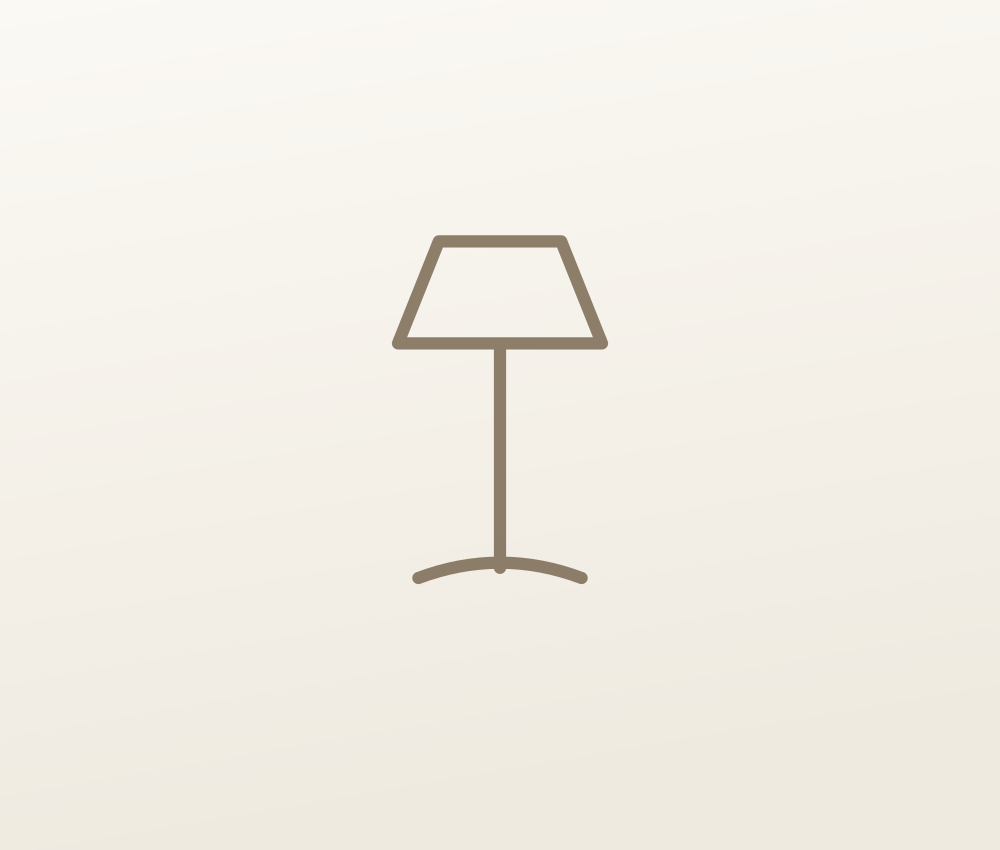
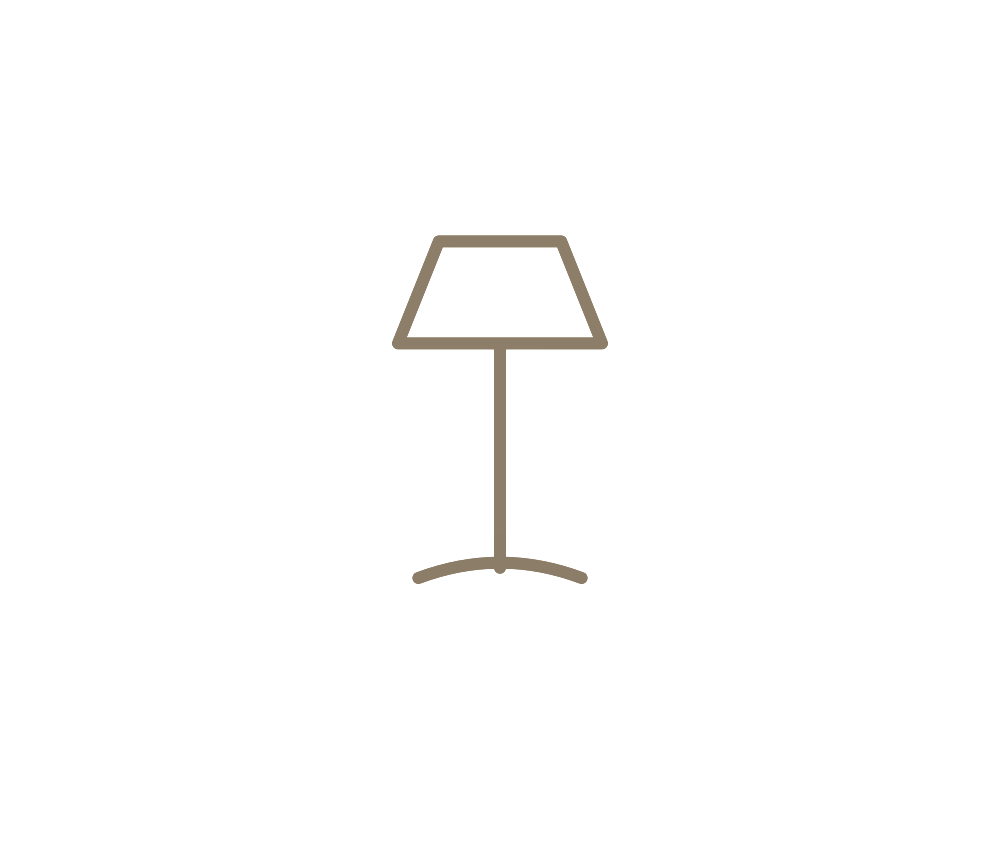
Fundo branco nas capas/cards, remove selo Em breve e adiciona proteção de dados (DSGVO/GDPR)
- Capas convertidas para fundo branco; fundo do card também branco
- Remove o selo 'Em breve' (mantém as capas das categorias sem produto)
- Termo de uso ganha seção de proteção de dados: DSGVO (Alemanha),
  RGPD/GDPR (UE) e LGPD (Brasil), com direitos do titular, base legal,
  cookies e campos para revisão jurídica

diff --git a/assets/app.js b/assets/app.js
@@ -32,7 +32,18 @@ const LEGAL_TEXT = `
 <p><strong>A curadoria não substitui um projeto de interiores.</strong> As sugestões têm caráter inspiracional e não constituem projeto de arquitetura ou decoração personalizado.</p>
 <p><strong>Responsabilidade da loja.</strong> Pagamento, entrega, trocas, garantias e atendimento são de inteira responsabilidade da loja de origem.</p>
 <p><strong>Propriedade do conteúdo.</strong> A curadoria, a organização e os textos desta plataforma são de propriedade da Casa com Identidade.</p>
-<p style="color:var(--bronze-soft);font-style:italic">[Texto provisório — será substituído pelo texto final fornecido por Gabriele.]</p>
+
+<h4 style="font-family:'Marcellus',serif;font-size:19px;margin:22px 0 6px">Proteção de dados — DSGVO (Alemanha) e RGPD/GDPR (União Europeia)</h4>
+<p>Esta plataforma respeita o Regulamento Geral sobre a Proteção de Dados da União Europeia (RGPD/GDPR, Regulamento (UE) 2016/679) e a lei de proteção de dados da Alemanha (Bundesdatenschutzgesetz — DSGVO). Para usuários no Brasil, aplica-se também a LGPD (Lei 13.709/2018).</p>
+<p><strong>Responsável pelo tratamento (Verantwortliche/Controller).</strong> Casa com Identidade — [nome/razão social], [endereço completo na Alemanha/UE], e-mail: [e-mail de contato]. Encarregado de proteção de dados (Datenschutzbeauftragte/DPO), se aplicável: [contato].</p>
+<p><strong>Dados que tratamos.</strong> Dados de cadastro e acesso (nome, e-mail/credencial), registro do aceite deste aviso (data e hora) e suas preferências dentro da plataforma (peças favoritadas). Não vendemos produtos nem processamos pagamentos — estes ocorrem nas lojas de terceiros, sob as políticas delas.</p>
+<p><strong>Base legal (Art. 6 GDPR).</strong> Execução do contrato de acesso à curadoria (Art. 6(1)(b)); consentimento, quando aplicável (Art. 6(1)(a)); e legítimo interesse na operação e segurança da plataforma (Art. 6(1)(f)).</p>
+<p><strong>Cookies e armazenamento local.</strong> Utilizamos apenas armazenamento estritamente necessário ao funcionamento (manter o login, registrar o aceite deste aviso e guardar seus favoritos). Cookies não essenciais (ex.: analíticos) só serão usados mediante o seu consentimento prévio, por meio do banner de consentimento.</p>
+<p><strong>Compartilhamento e transferências.</strong> Os dados são tratados em provedores de infraestrutura na União Europeia. Eventuais transferências internacionais observam as salvaguardas do GDPR (cláusulas contratuais padrão). Ao clicar numa peça, você é direcionado ao site da loja, que passa a tratar seus dados conforme a política própria.</p>
+<p><strong>Prazo de retenção.</strong> Mantemos os dados apenas pelo tempo necessário às finalidades acima ou enquanto durar o seu acesso; depois disso, são eliminados ou anonimizados.</p>
+<p><strong>Seus direitos (Art. 15–22 GDPR / LGPD).</strong> Você pode solicitar acesso, correção, eliminação, portabilidade, limitação ou oposição ao tratamento, além de retirar o consentimento a qualquer momento, escrevendo para [e-mail de contato]. Você também tem o direito de apresentar reclamação a uma autoridade de controle (na Alemanha, a autoridade estadual de proteção de dados competente).</p>
+
+<p style="color:var(--bronze-soft);font-style:italic">[Minuta para revisão jurídica. Os campos entre colchetes devem ser preenchidos por Gabriele, e o texto final (Termos de Uso + Política de Privacidade/Datenschutzerklärung) deve ser validado por advogado(a). O banner de consentimento de cookies será ativado na configuração do Wix.]</p>
 `;
 
 // =============================================================
@@ -234,12 +245,10 @@ function renderGrid() {
   }).join('');
 
   const soonHTML = soon.map((cat) => `<article class="card card-soon">
-      <span class="badge-soon">Em breve</span>
       <div class="img"><img src="${coverFor(cat)}" alt="${escapeAttr(cat)}"></div>
       <div class="info">
-        <div class="store">Categoria</div>
+        <div class="store">Em breve</div>
         <div class="name">${cat}</div>
-        <div class="meta"><div class="ships">Novas peças em breve nesta categoria.</div></div>
       </div>
     </article>`).join('');
 

diff --git a/assets/styles.css b/assets/styles.css
@@ -78,7 +78,7 @@ header{padding:26px 5vw 0;display:flex;justify-content:space-between;align-items
 
 .card{background:var(--card);border:1px solid var(--line);border-radius:3px;overflow:hidden;display:flex;flex-direction:column;transition:transform .2s, box-shadow .2s;position:relative}
 .card:hover{transform:translateY(-3px);box-shadow:0 14px 30px rgba(60,50,30,.09)}
-.card .img{aspect-ratio:1/.85;background:linear-gradient(170deg,#FBF9F4,#EFEAE0);display:flex;align-items:center;justify-content:center;cursor:pointer;overflow:hidden}
+.card .img{aspect-ratio:1/.85;background:#FFFFFF;display:flex;align-items:center;justify-content:center;cursor:pointer;overflow:hidden}
 .card .img svg{width:62%;height:62%;stroke:var(--bronze);fill:none;stroke-width:2.4;opacity:.85}
 .card .img img{width:100%;height:100%;object-fit:cover} /*+ NOVO: foto real do produto */
 .badge-new{position:absolute;top:12px;left:12px;background:var(--gold);color:#fff;font-size:10px;letter-spacing:.18em;text-transform:uppercase;padding:4px 10px;border-radius:2px} /*+ NOVO: selo Novo */
@@ -94,14 +94,11 @@ header{padding:26px 5vw 0;display:flex;justify-content:space-between;align-items
 .price{font-family:'Marcellus',serif;font-size:15px;letter-spacing:.06em;color:var(--ink)}
 .price .dim{color:var(--line)}
 
-/* Cartão "Em breve" (+ NOVO): categoria ainda sem produtos cadastrados */
-.badge-soon{position:absolute;top:12px;left:12px;background:var(--bronze-soft);color:#fff;font-size:10px;letter-spacing:.16em;text-transform:uppercase;padding:4px 10px;border-radius:2px}
+/* Cartão de categoria ainda sem produtos cadastrados (+ NOVO) */
 .card-soon{cursor:default}
 .card-soon:hover{transform:none;box-shadow:none}
-.card-soon .img{opacity:.9}
 .card-soon .store{color:var(--bronze-soft)}
 .card-soon .name{color:var(--bronze)}
-.card-soon .ships{font-style:italic;color:var(--bronze-soft)}
 
 /* ---------- ADMIN ---------- */
 #adminPanel{position:fixed;inset:0;background:rgba(44,40,32,.45);display:none;align-items:flex-start;justify-content:center;z-index:90;padding:5vh 16px;overflow:auto}
